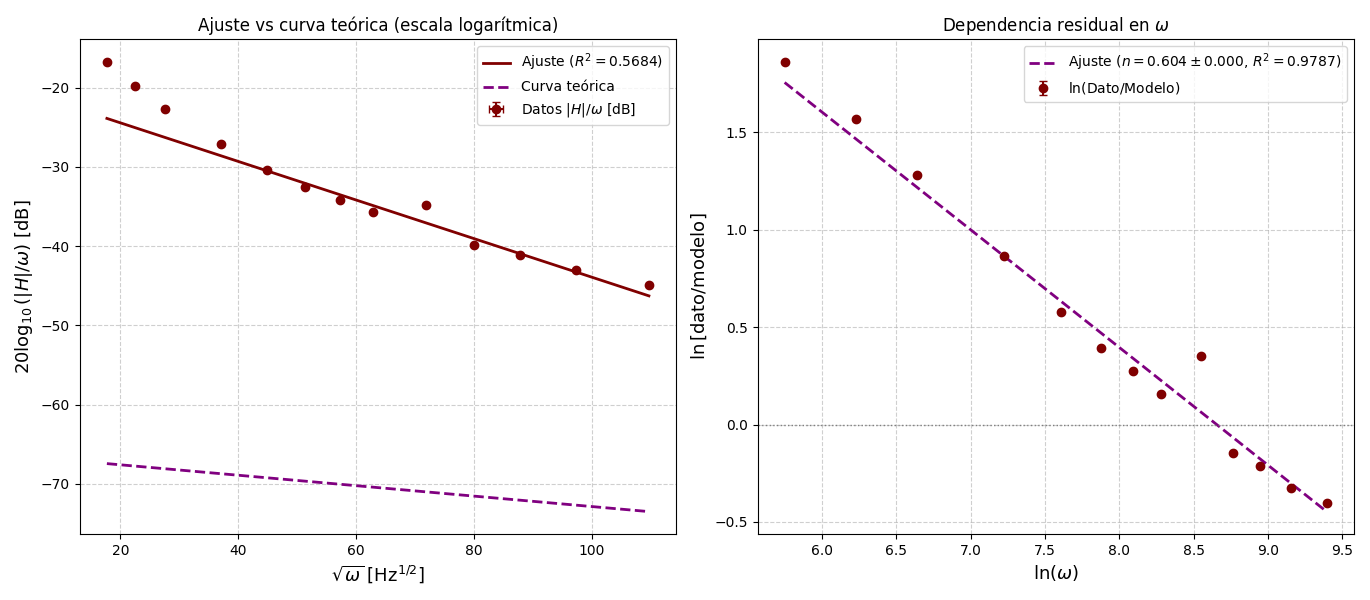
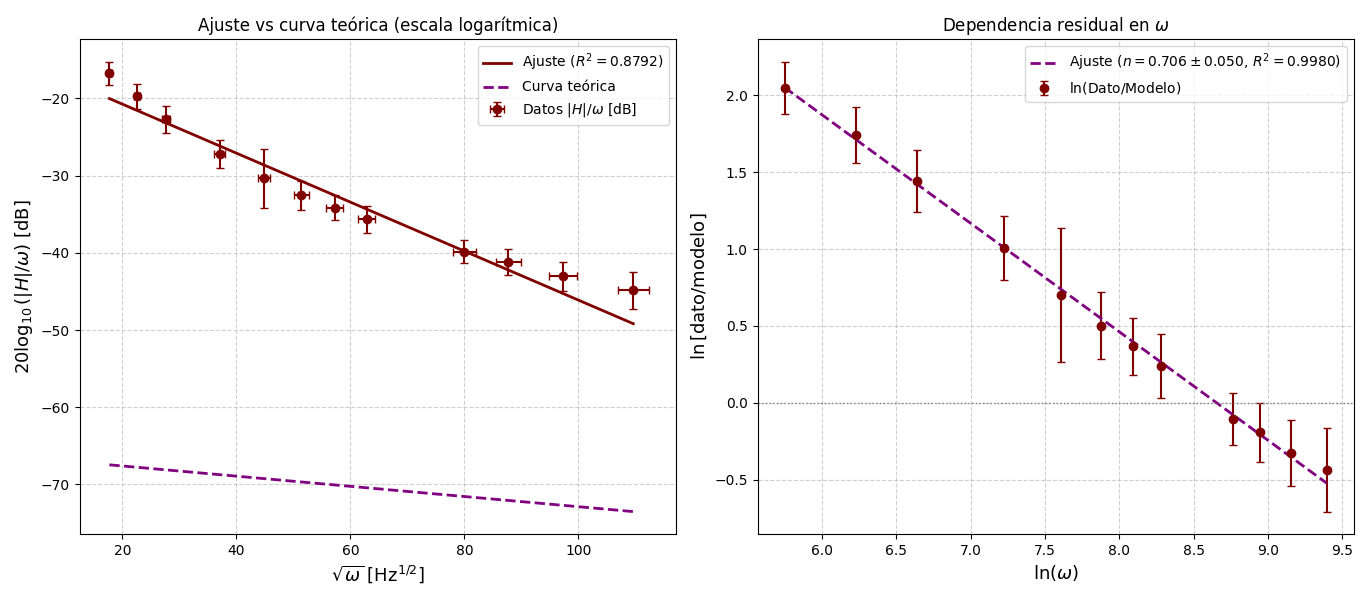
cambios de imágenes

diff --git a/Experimento III, Efecto Skin/codigo/graficoGeneralInforme.py b/Experimento III, Efecto Skin/codigo/graficoGeneralInforme.py
@@ -28,12 +28,22 @@ dv_s = np.array([0.6546, 0.6177, 0.291, 0.2745, 0.2625, 0.2538, 0.0849, 0.08061,
 df = np.array([6.07, 10.94, 15.99, 21.01, 26.065, 31.415, 50.95, 61.2, 75.3, 95.65, 4.0325, 40.985, 2.4975])
 
 
+mask = f != 819.7
+
+v_p  = v_p[mask]
+v_s  = v_s[mask]
+f    = f[mask]
+dv_p = dv_p[mask]
+dv_s = dv_s[mask]
+df   = df[mask]
+
 x   = np.sqrt(f * 2 * np.pi)
 y   = v_s / (v_p * 2 * np.pi * f)
 dx  = np.sqrt((np.pi / 2) * (df**2 / f))
 dy  = (1 / (2 * np.pi * v_p * f)) * np.sqrt(
     dv_s**2 + (v_s * dv_p / v_p)**2 + (df * v_s / f)**2
 )
+
 
 # ─── Auxiliares ──────────────────────────────────────────────────────────────
 
@@ -116,7 +126,7 @@ plt.plot(x_fit, yfit_dB,
                 '\n'
                 fr'$n={n_fit:.3f}\pm{dn_fit:.3f}$'
                 '\n'
-                fr'$B=({B_fit:.3e}\pm{dB_fit:.3e})$'
+                fr'$\sigma=({B_fit:.3e}\pm{dB_fit:.3e})$'
                 '\n'
                 fr'$R^2={R2_fit:.4f}$'))
 

diff --git a/Experimento III, Efecto Skin/codigo/código dado por la ia nuestro.py b/Experimento III, Efecto Skin/codigo/código dado por la ia nuestro.py
@@ -103,6 +103,16 @@ df = np.array([1.055, 6.07, 10.94, 15.99, 21.01, 26.065, 31.415, 50.95, 61.2, 75
 dt= np.array([0.005, 0.001, 0.0005, 0.0005, 0.00025, 0.00025, 0.0001, 0.0001, 0.00005, 0.00005, 0.00005, 0.0025, 0.001, 0.001, 0.0001])
 dt/=5
 
+mask = f != 819.7
+
+v_p  = v_p[mask]
+v_s  = v_s[mask]
+f    = f[mask]
+dv_p = dv_p[mask]
+dv_s = dv_s[mask]
+df   = df[mask]
+dt = dt[mask]
+t= t[mask]
 # Variables del ajuste del módulo: x = sqrt(omega), y = |H|/omega
 x1   = np.sqrt(f * 2 * np.pi)
 y1   = v_s / (v_p * 2 * np.pi * f)
@@ -183,6 +193,17 @@ df = np.array([6.07, 10.94, 15.99, 21.01, 26.065, 31.415, 50.95, 61.2, 75.3, 95.
 dt= np.array([0.001, 0.0005, 0.0005, 0.00025, 0.00025, 0.0001, 0.0001, 0.00005, 0.00005, 0.00005, 0.001, 0.0001, 0.001])
 dt/=5
 
+
+mask = f != 819.7
+
+v_p  = v_p[mask]
+v_s  = v_s[mask]
+f    = f[mask]
+dv_p = dv_p[mask]
+dv_s = dv_s[mask]
+df   = df[mask]
+dt = dt[mask]
+t= t[mask]
 # Variables del ajuste del módulo
 x    = np.sqrt(f * 2 * np.pi)
 y    = v_s / (v_p * 2 * np.pi * f)

diff --git a/Experimento III, Efecto Skin/codigo/graficosinforme.py b/Experimento III, Efecto Skin/codigo/graficosinforme.py
@@ -31,6 +31,16 @@ u      = 0.00000123656
 A_fijo = n_geom
 B_fijo = 0.00759251
 
+mask = f != 819.7
+
+v_p  = v_p[mask]
+v_s  = v_s[mask]
+f    = f[mask]
+dv_p = dv_p[mask]
+dv_s = dv_s[mask]
+df   = df[mask]
+dt = dt[mask]
+t= t[mask]
 x   = np.sqrt(f * 2 * np.pi)
 y   = v_s / (v_p * 2 * np.pi * f)
 dx  = np.sqrt((np.pi / 2) * (df**2 / f))
